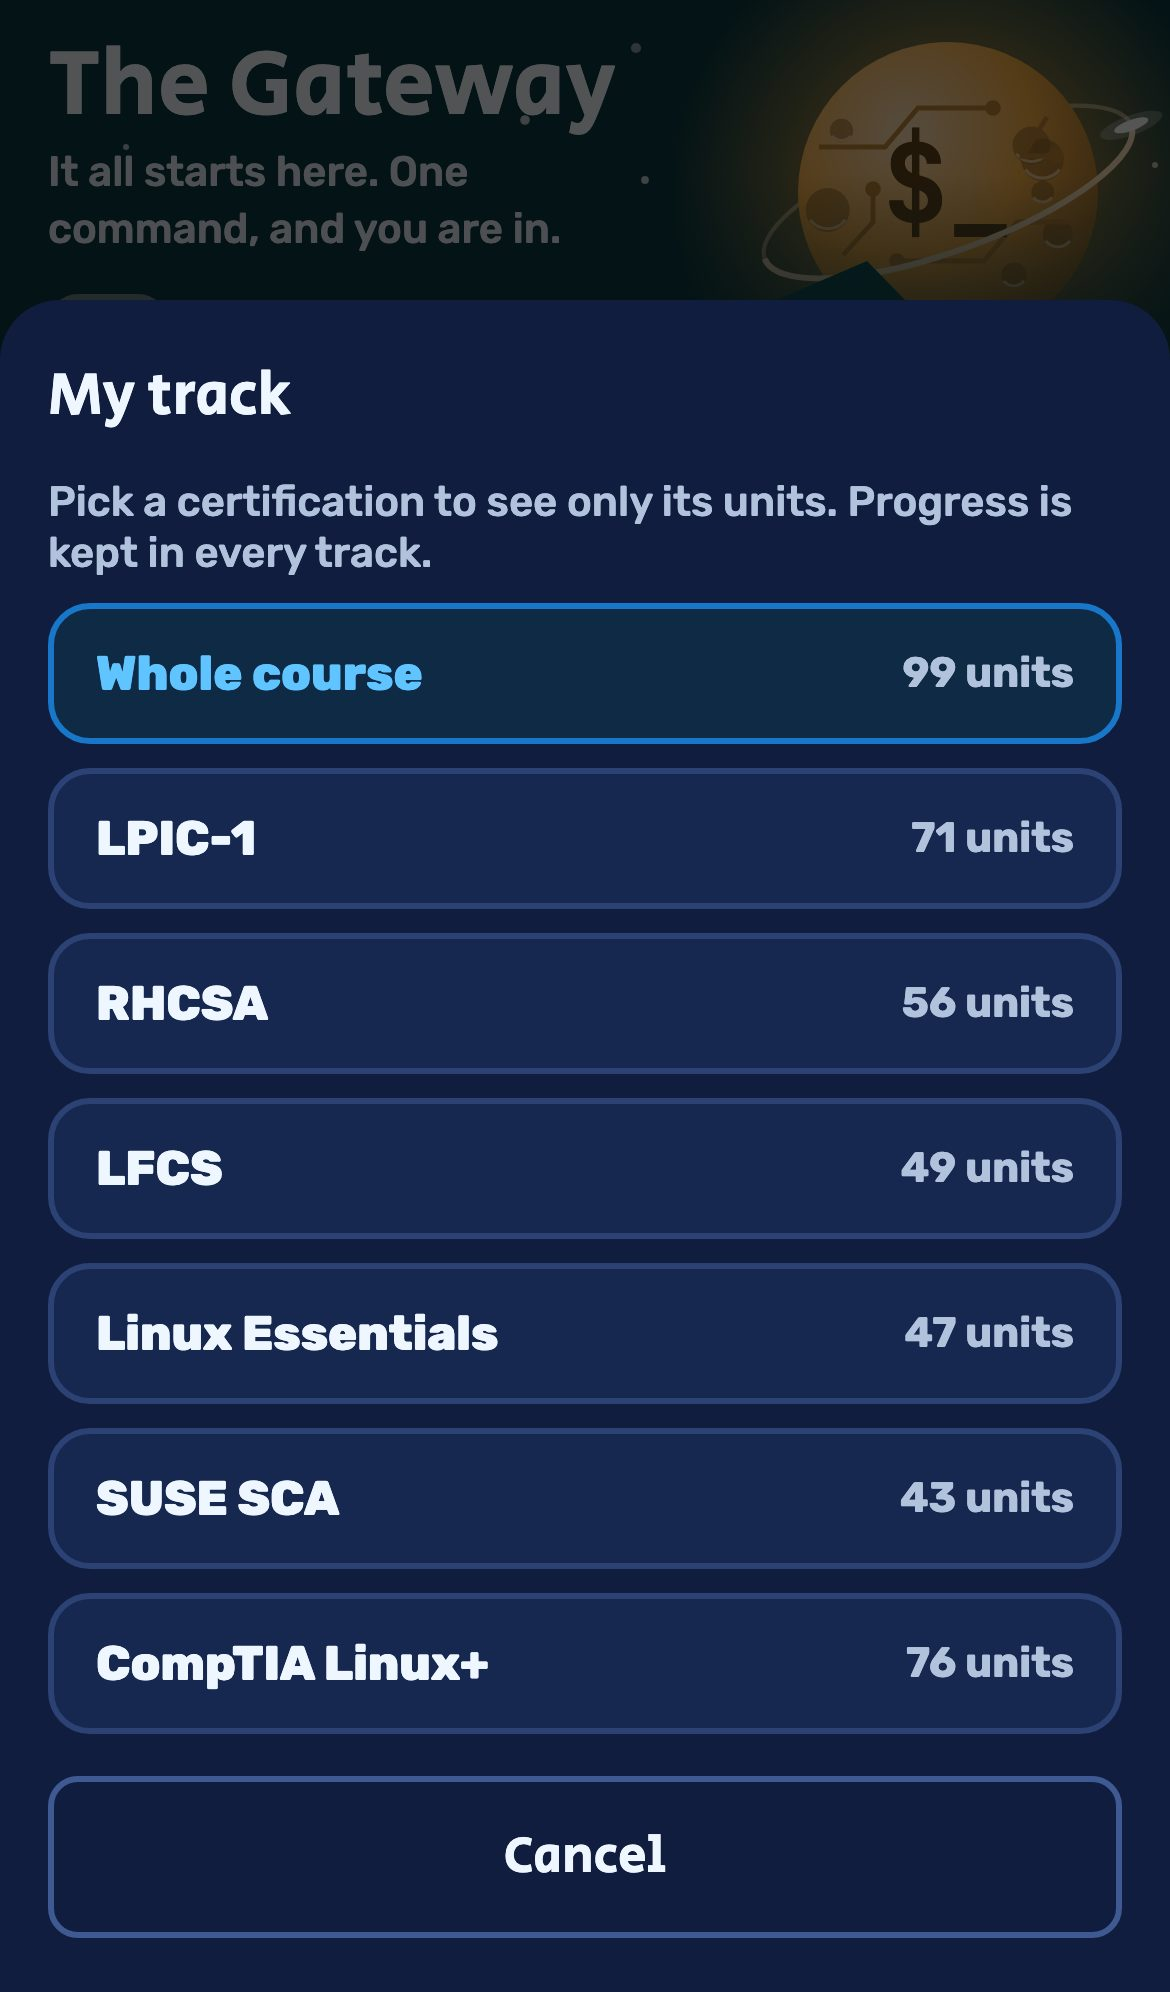
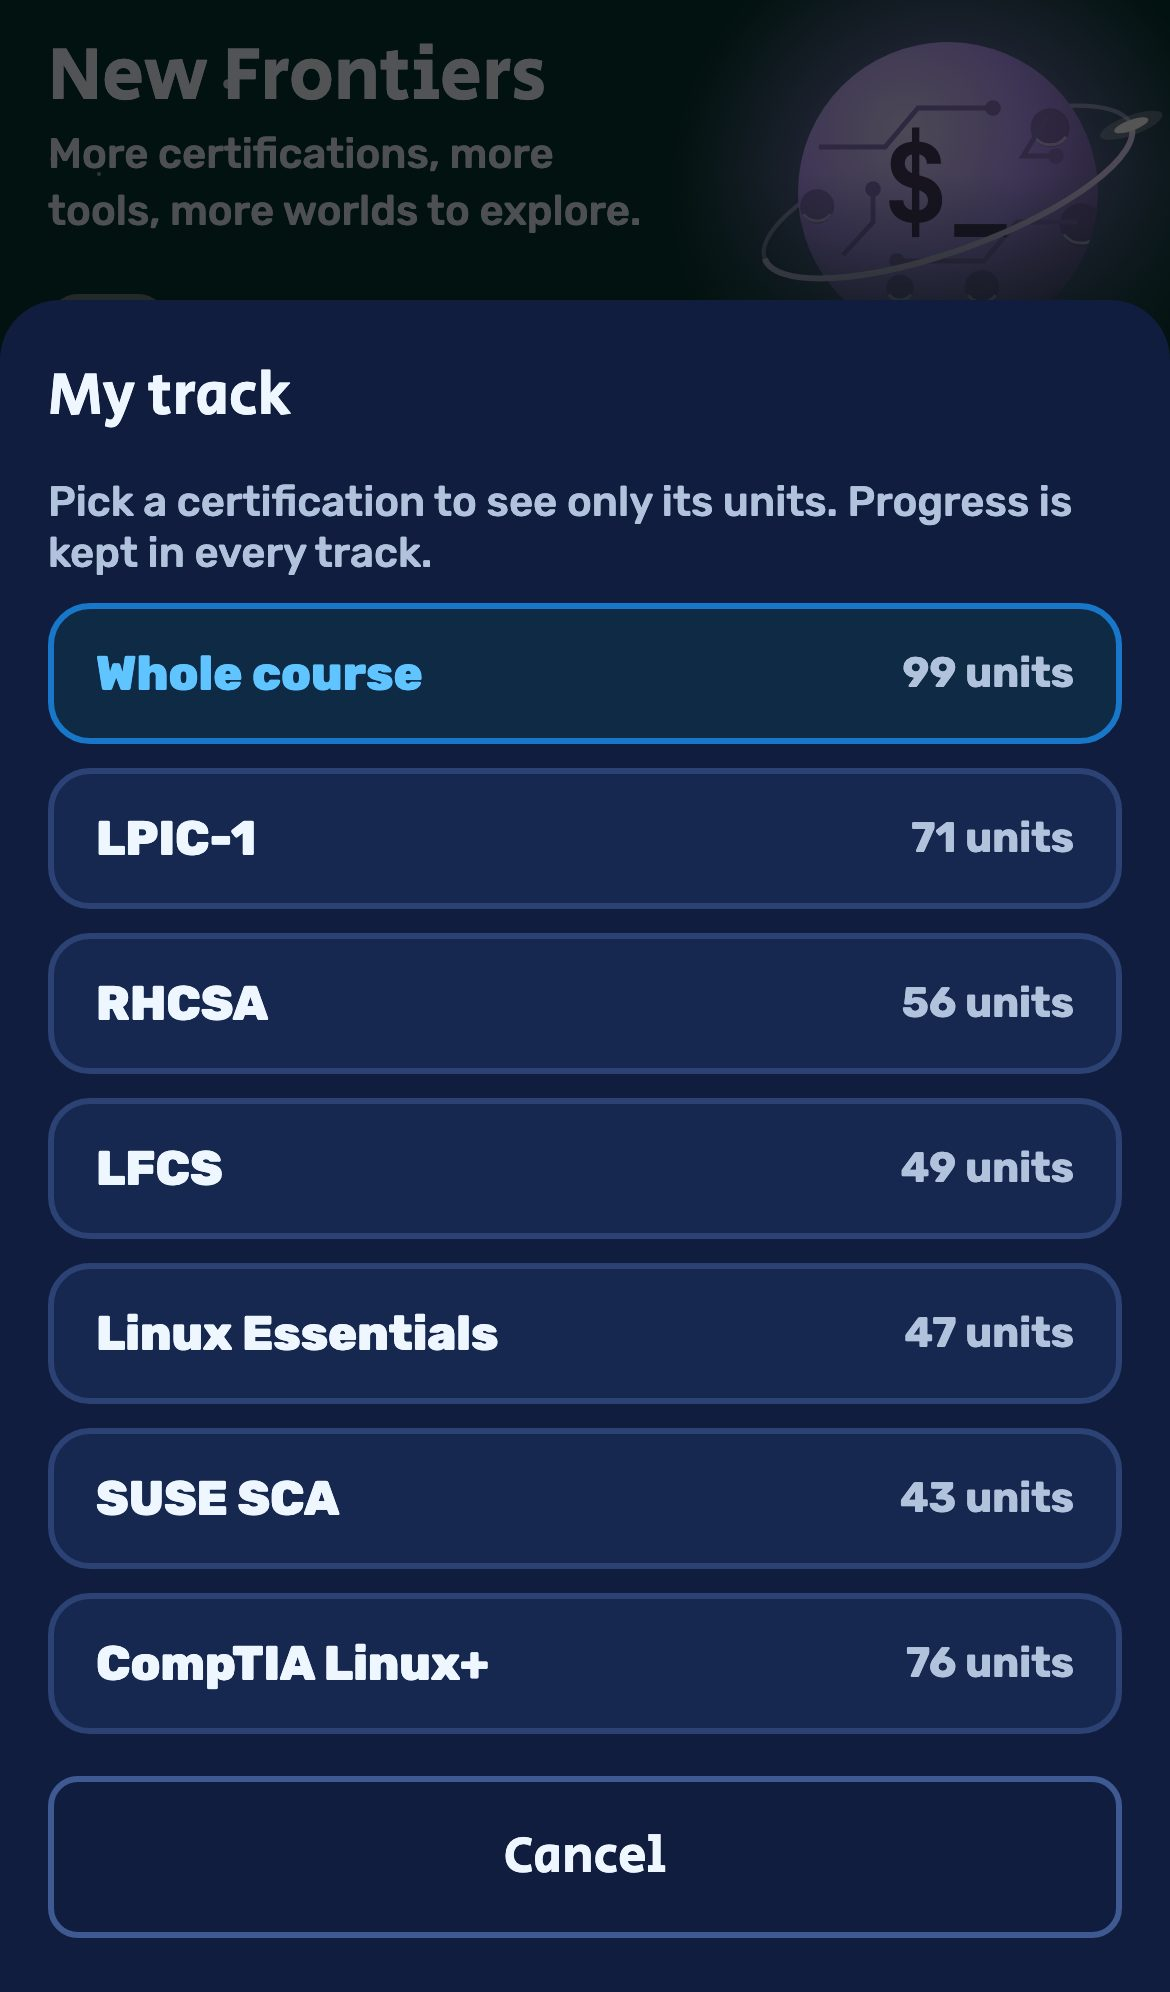
Show course levels, certification prep and Hebrew in the README
Add a GIF that moves through the eight course worlds, mock exam and
track screens, a wrong answer with its explanation, and the Hebrew
interface. Screenshots now use sample progress (rank 10, part 8) so the
path shows finished units.

Changed region(s): [[0.0308, 0.0, 0.5538, 0.1245], [0.6769, 0.0, 0.9538, 0.1556]]

diff --git a/tests/screenshots.js b/tests/screenshots.js
@@ -9,27 +9,48 @@ const sampleProgress = {
 
 (async () => {
   const browser = await chromium.launch();
-  for (const lang of ['en']) {
+  for (const lang of ['en', 'he']) {
     const context = await browser.newContext({ ...devices['iPhone 13'], reducedMotion: 'reduce' });
     const page = await context.newPage();
     await page.goto('http://localhost:8766/');
     await page.evaluate(l => { localStorage.clear(); localStorage.setItem('lang', l); }, lang);
     await page.reload();
     await page.waitForFunction(() => window.courseReady);
-    const shot = async name => { await page.waitForTimeout(250); await page.screenshot({ path: out(`${name}-${lang}`), type: 'jpeg', quality: 82 }); };
+    // A learner who finished parts 1-7 and is midway through part 8.
+    await page.evaluate(() => {
+      const done = COURSE.filter(u => !u.exam && u.unit <= 68).flatMap(u => unitNodes(u).map(n => n.key));
+      localStorage.setItem(STORE, JSON.stringify({ xp: 5240, gems: 310, streak: 23, lastDay: dayKey(), days: [dayKey()], done }));
+    });
+    await page.reload();
+    await page.waitForFunction(() => window.courseReady);
+    const shot = async name => { await page.waitForTimeout(400); await page.screenshot({ path: out(`${name}-${lang}`), type: 'jpeg', quality: 82 }); };
+    const toUnit = unit => page.evaluate(u => { document.querySelector(`.unit-banner[data-unit="${u}"]`).scrollIntoView({ block: 'center' }); scrollBy(0, 120); }, unit);
 
-    await page.evaluate(() => scrollTo(0, 0));
+    await toUnit(69);
     await shot('learn-home');
 
-    await page.evaluate(() => openTracks());
-    await shot('learn-tracks');
-
-    await page.evaluate(() => { document.getElementById('trackSheet').hidden = true; const unit = COURSE.find(u => u.unit === 7); const ex = unit.lessons[0].exercises; startLesson('u7-L0', withFixture(unit, ex.slice(ex.findIndex(e => e.type === 'terminal')))); });
+    await page.evaluate(() => { const unit = COURSE.find(u => u.unit === 7); const ex = unit.lessons[0].exercises; startLesson('u7-L0', withFixture(unit, ex.slice(ex.findIndex(e => e.type === 'terminal')))); });
     const input = page.locator('#lesson textarea').first();
     await input.fill('grep "started$" logs/app.log');
     await input.press('Enter');
     await page.evaluate(() => document.activeElement.blur());
     await shot('learn-terminal');
+    await page.evaluate(() => closeOverlays());
+    if (lang !== 'en') { await context.close(); continue; }
+
+    await page.evaluate(() => openTracks());
+    await shot('learn-tracks');
+    await page.evaluate(() => { document.getElementById('trackSheet').hidden = true; });
+
+    await page.evaluate(() => { const unit = COURSE.find(u => u.unit === 4); const ex = unit.lessons[0].exercises; startLesson('u4-L0', withFixture(unit, ex.slice(ex.findIndex(e => e.type === 'choice' && e.why)))); });
+    await page.locator('#exBody .opt').filter({ hasText: 'grep notes.txt milk' }).click();
+    await page.locator('#checkBtn').click();
+    await shot('learn-why');
+
+    for (const unit of [78, 79]) {
+      await page.evaluate(u => { closeOverlays(); startExam(COURSE.find(c => c.unit === u), `u${u}-exam`); }, unit);
+      await shot(`learn-exam${unit}`);
+    }
     await context.close();
   }
   for (const lang of ['en']) {

diff --git a/README.md b/README.md
@@ -35,15 +35,46 @@ That goal set the technical requirements: a full course that works offline on a 
 - **Lessons in the style of a language-learning app:** teach cards, multiple choice, fill-in, word tiles, "what will this print?" and live terminal tasks, with lives, streaks, daily quests and a boss at the end of each unit.
 - **Your data stays yours.** Progress stays in the browser, with a backup file you can save and restore.
 
+### From the first command to advanced topics
+
+Every part of the course is its own world, from The Gateway (`pwd`, `ls`, `cat`) through text processing, files and permissions, processes, networking, scripting and security, to New Frontiers with topics from other certifications. A learner climbs through ranks as they earn XP.
+
+<p align="center">
+  <img src="docs/screenshots/worlds-en.gif" width="280" alt="Scrolling through the course worlds: The Gateway, River of Text, City of Files, Citadel of Processes, Grid of Lights, The Script Works, The Firewall and New Frontiers">
+</p>
+
+### Certification prep
+
 <p>
-  <img src="docs/screenshots/learn-home-en.jpg" width="200" alt="Learn mode home: the course path with rank, XP and the first unit">
-  <img src="docs/screenshots/learn-terminal-en.jpg" width="200" alt="A terminal exercise: grep with a regex run in the simulated shell">
-  <img src="docs/screenshots/learn-tracks-en.jpg" width="200" alt="Certification track picker with the number of units in each track">
+  <img src="docs/screenshots/learn-tracks-en.jpg" width="200" alt="Track picker: whole course or one of six certifications, with the number of units in each">
+  <img src="docs/screenshots/learn-exam78-en.jpg" width="200" alt="LPIC-1 mock exam: question 1 of 60 with a 90-minute timer">
+  <img src="docs/screenshots/learn-exam79-en.jpg" width="200" alt="RHCSA mock exam: a hands-on task in the simulated terminal">
+</p>
+
+### Lessons
+
+<p>
+  <img src="docs/screenshots/learn-terminal-en.jpg" width="200" alt="A terminal task: grep with a regex, run in the simulated shell and accepted">
+  <img src="docs/screenshots/learn-why-en.jpg" width="200" alt="A wrong answer with the correct command and an explanation of the mistake">
+  <img src="docs/screenshots/learn-home-en.jpg" width="200" alt="The course path in part 8, The Firewall, with rank, streak, gems and XP">
+</p>
+
+### Fully in Hebrew
+
+<p>
+  <img src="docs/screenshots/learn-home-he.jpg" width="200" alt="The course path in Hebrew, right to left">
+  <img src="docs/screenshots/learn-terminal-he.jpg" width="200" alt="The same terminal task in Hebrew">
 </p>
 
 ## Trivia mode
 
 The original command trainer, at [`?mode=trivia`](https://saharhalili95.github.io/linux-master/?mode=trivia): 8 levels and about 1,100 questions with Leitner spaced repetition, an explanation for every wrong answer, and 12 terminal missions shaped like the first levels of OverTheWire Bandit, each with a fresh random password. Learn mode's Practice tab draws its questions from here.
+
+<p>
+  <img src="docs/screenshots/typing-alternative-en.jpg" width="200" alt="A different typed command accepted because it produces the same output">
+  <img src="docs/screenshots/why-wrong-en.jpg" width="200" alt="Explanation of why the chosen answer is wrong">
+  <img src="docs/screenshots/mission-terminal-en.jpg" width="200" alt="Mission 6 solved with find in the simulated terminal">
+</p>
 
 ## Architecture
 
